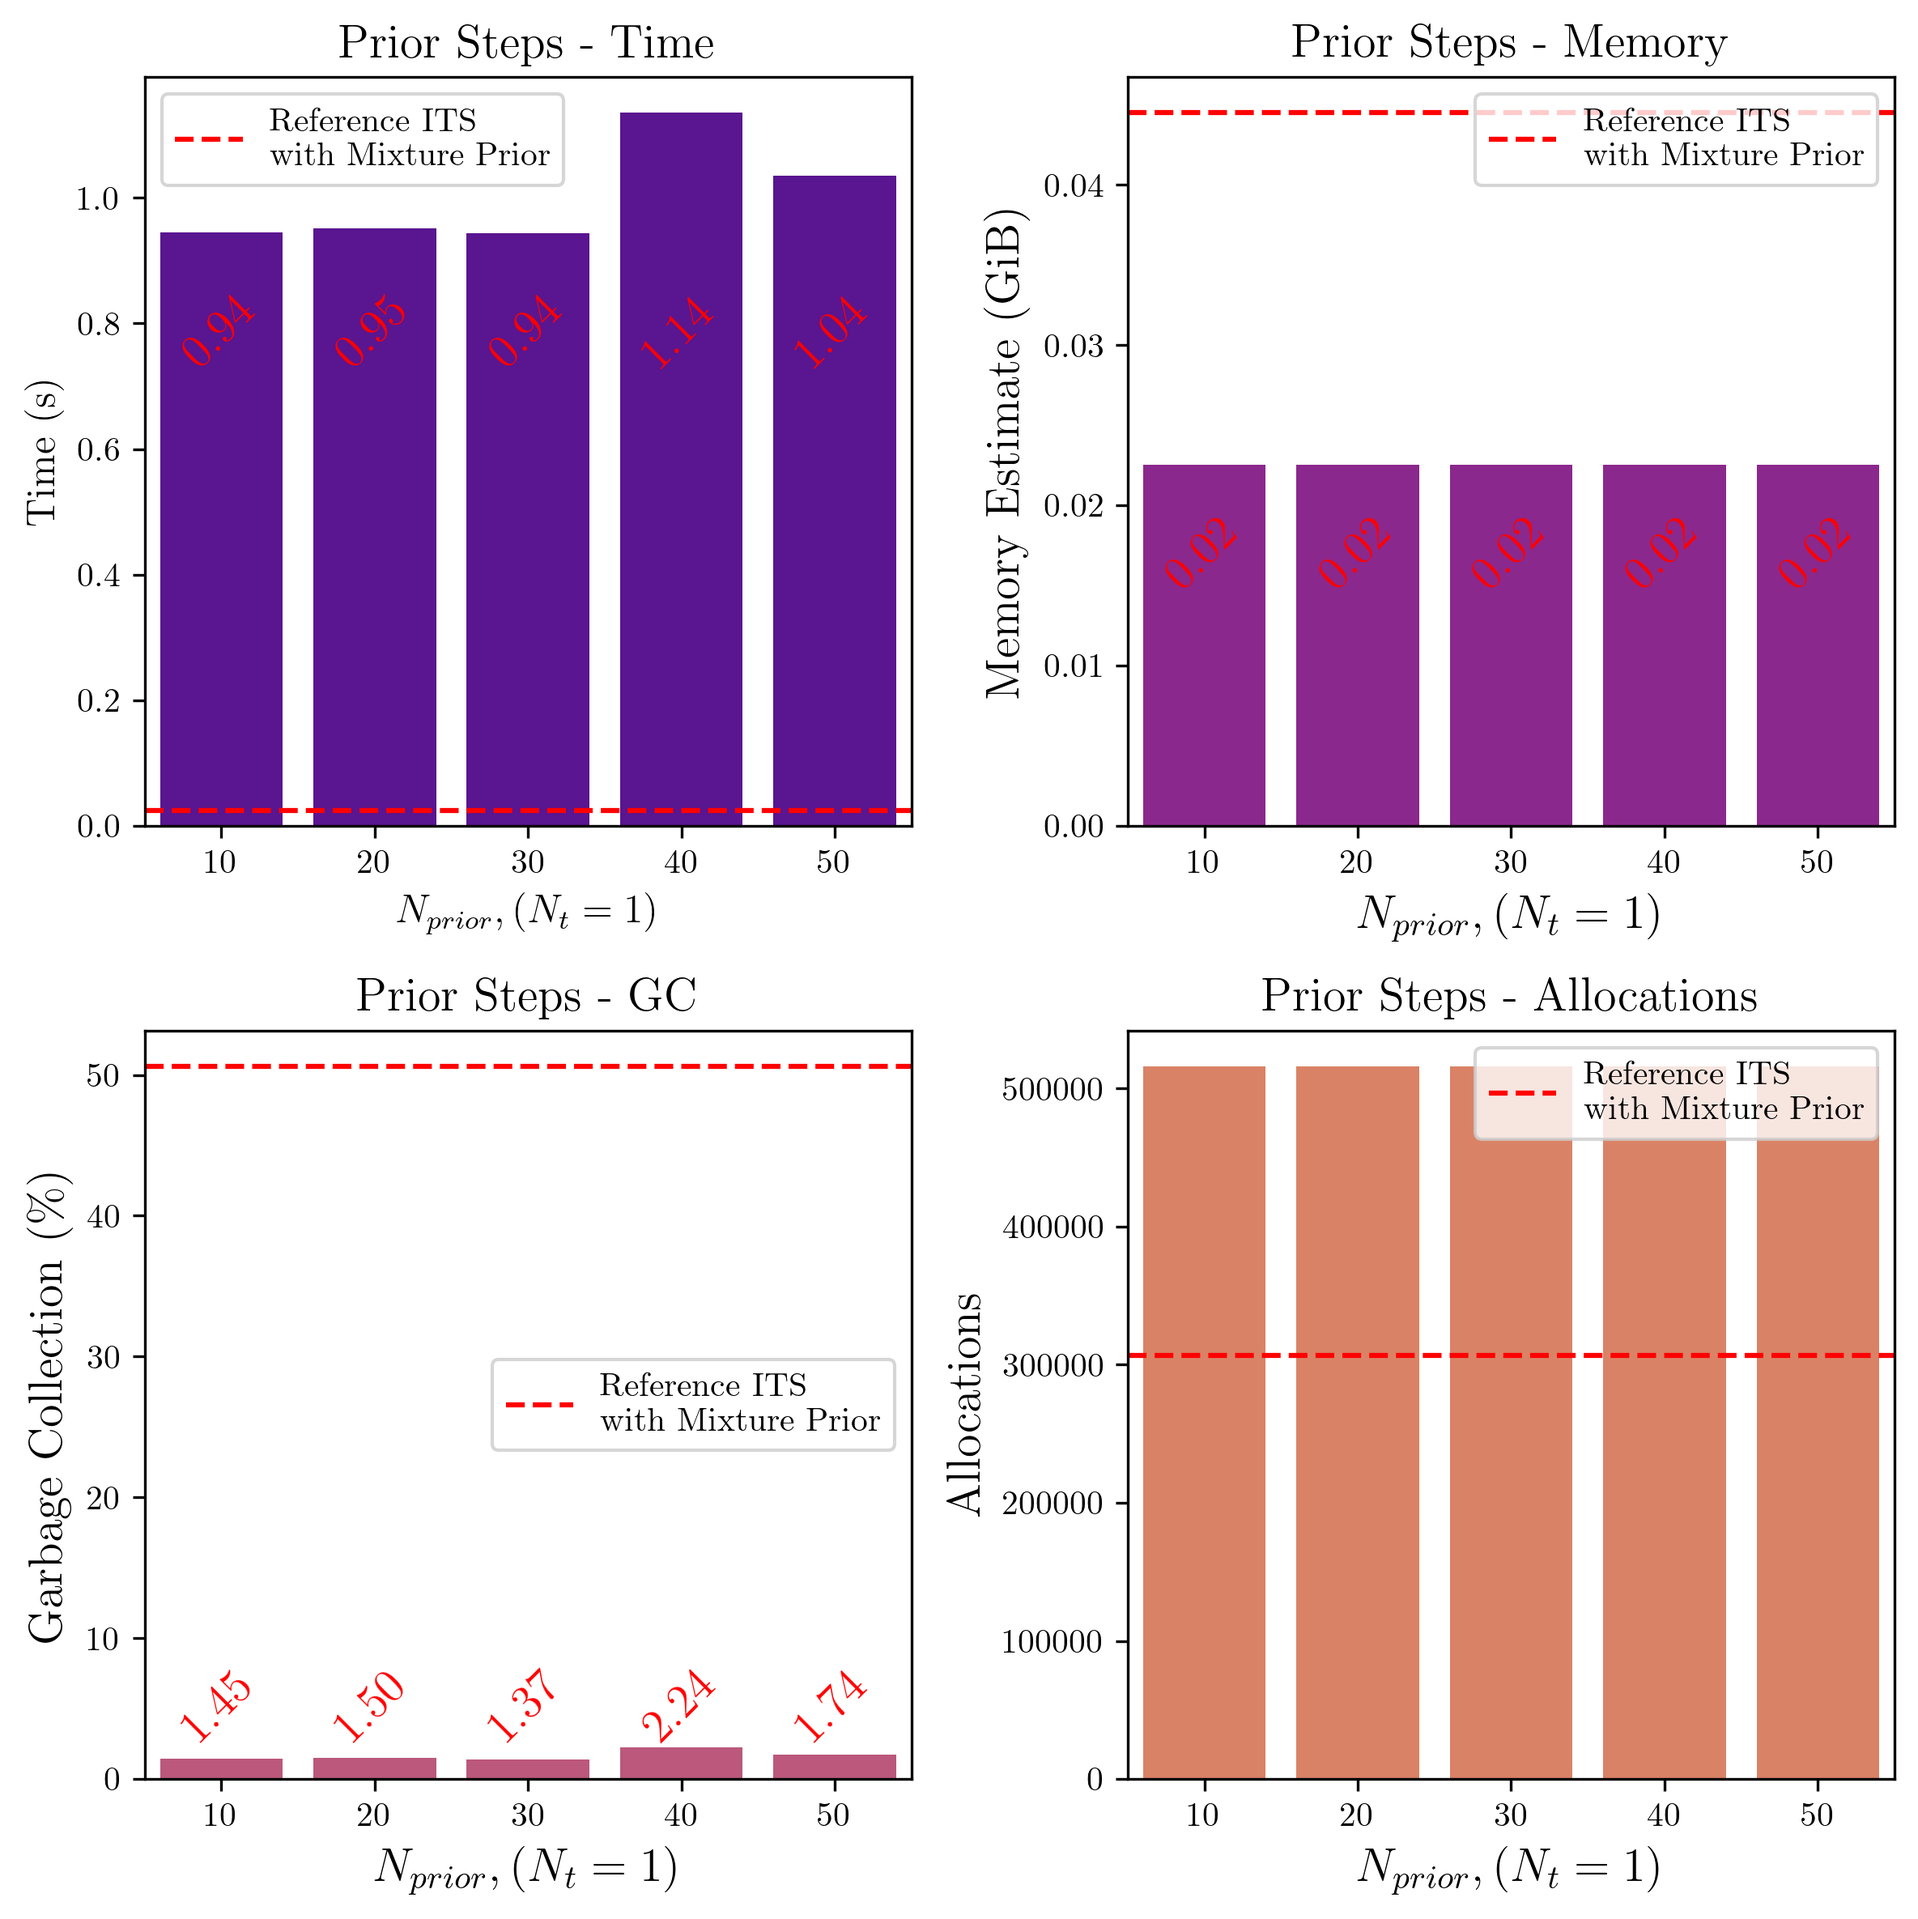
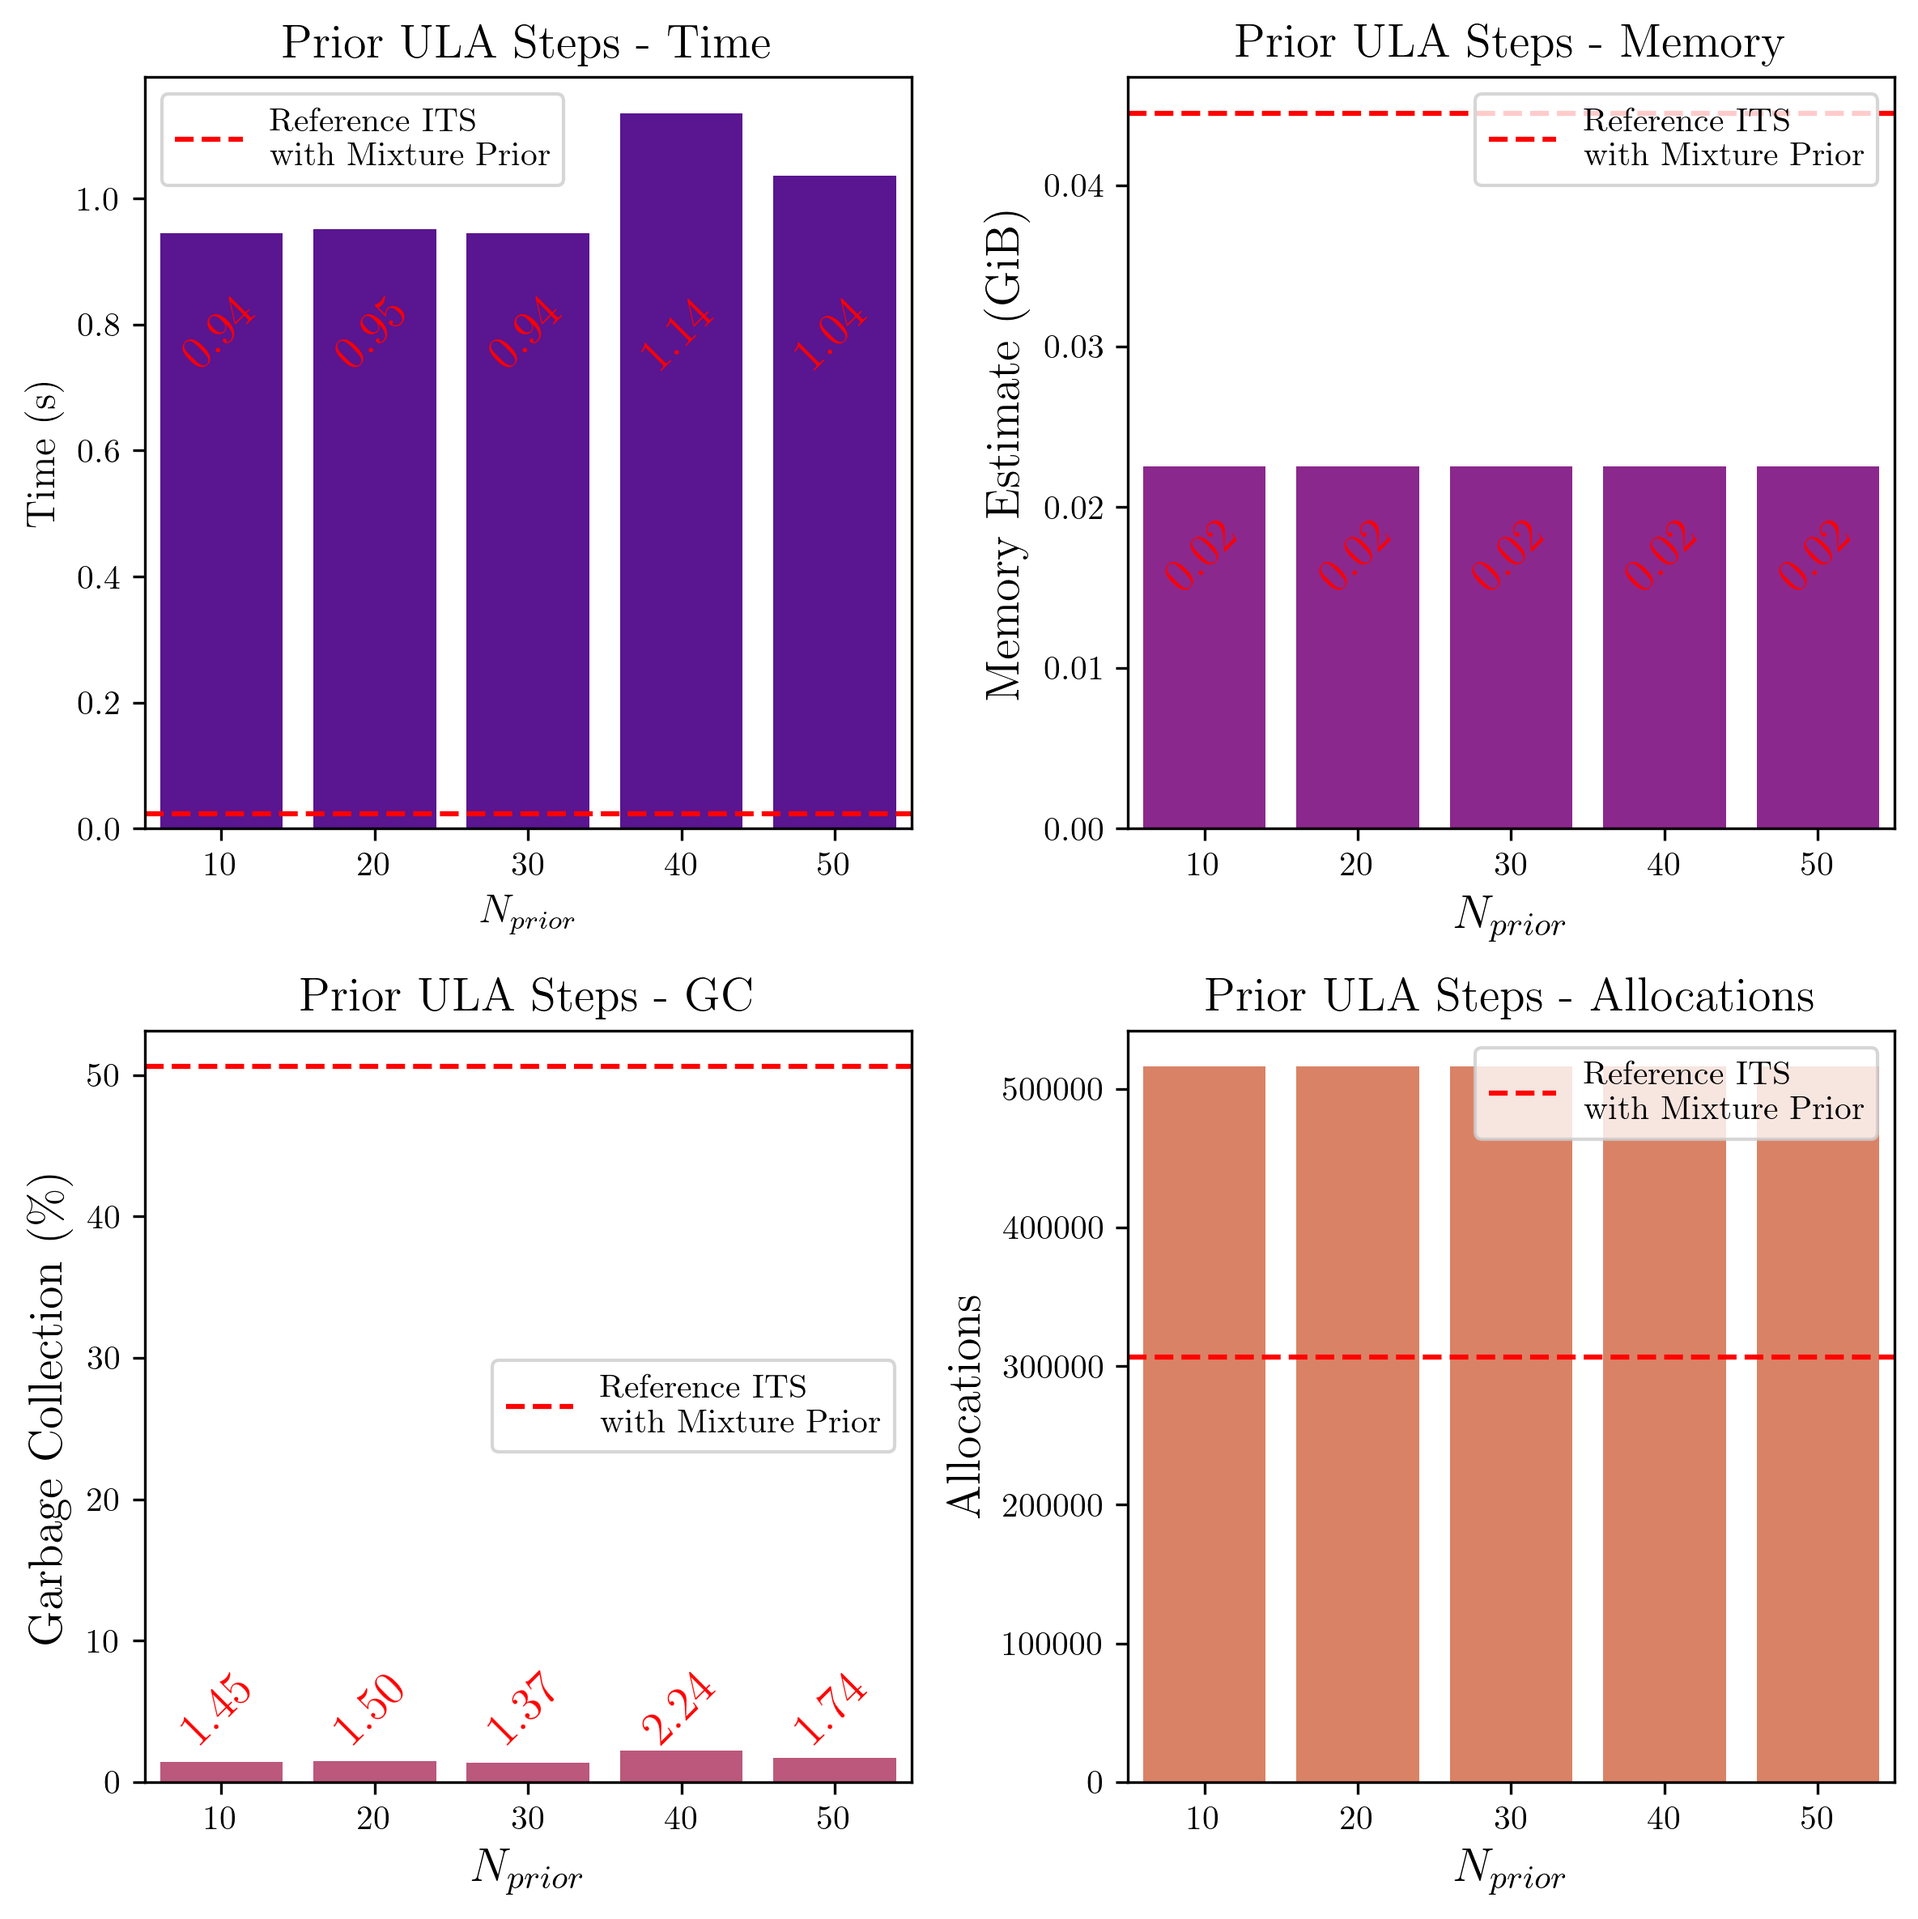
labelling

diff --git a/plotting/benchmark/plot_cost.py b/plotting/benchmark/plot_cost.py
@@ -35,7 +35,7 @@ latent_dim = pd.DataFrame({
 })
 
 mala_steps = pd.DataFrame({
-    r"$N_{t},\\(N_{\text{local}}=20)$": temperatures_df['N_t'],
+    r"$N_{t}$": temperatures_df['N_t'],
     "Time (s)": temperatures_df['time_mean'],
     "Memory Estimate (GiB)": temperatures_df['memory_estimate'],
     "Garbage Collection (%)": temperatures_df['gc_percent'],
@@ -43,7 +43,7 @@ mala_steps = pd.DataFrame({
 })
 
 prior_steps = pd.DataFrame({
-    r"$N_{prior},(N_t=1)$": prior_steps_df['N_l'],
+    r"$N_{prior}$": prior_steps_df['N_l'],
     "Time (s)": prior_steps_df['time_mean'],
     "Memory Estimate (GiB)": prior_steps_df['memory_estimate'],
     "Garbage Collection (%)": prior_steps_df['gc_percent'],
@@ -58,12 +58,12 @@ prior_steps_ref = {
     "Allocations": its_single_df.iloc[0]['allocations']
 }
 
-keys = [r"$n_z$", r"$N_{t},\\(N_{\text{local}}=20)$", r"$N_{prior},(N_t=1)$"]
+keys = [r"$n_z$", r"$N_{t}$", r"$N_{prior}$"]
 colours = ["viridis", "cividis", "plasma"]
 elevations = [0.545, 0.6, 0.6]
 datasets = [latent_dim, mala_steps, prior_steps]
 references = [None, mala_steps_ref, prior_steps_ref]
-titles = ["Latent Dimension", "Power Posteriors", "Prior Steps"]
+titles = ["Latent Dimension", "Power Posteriors", "Prior ULA Steps"]
 
 def add_text_annotations(ax, round=False, elevation=0.45):
     for bar in ax.patches:
